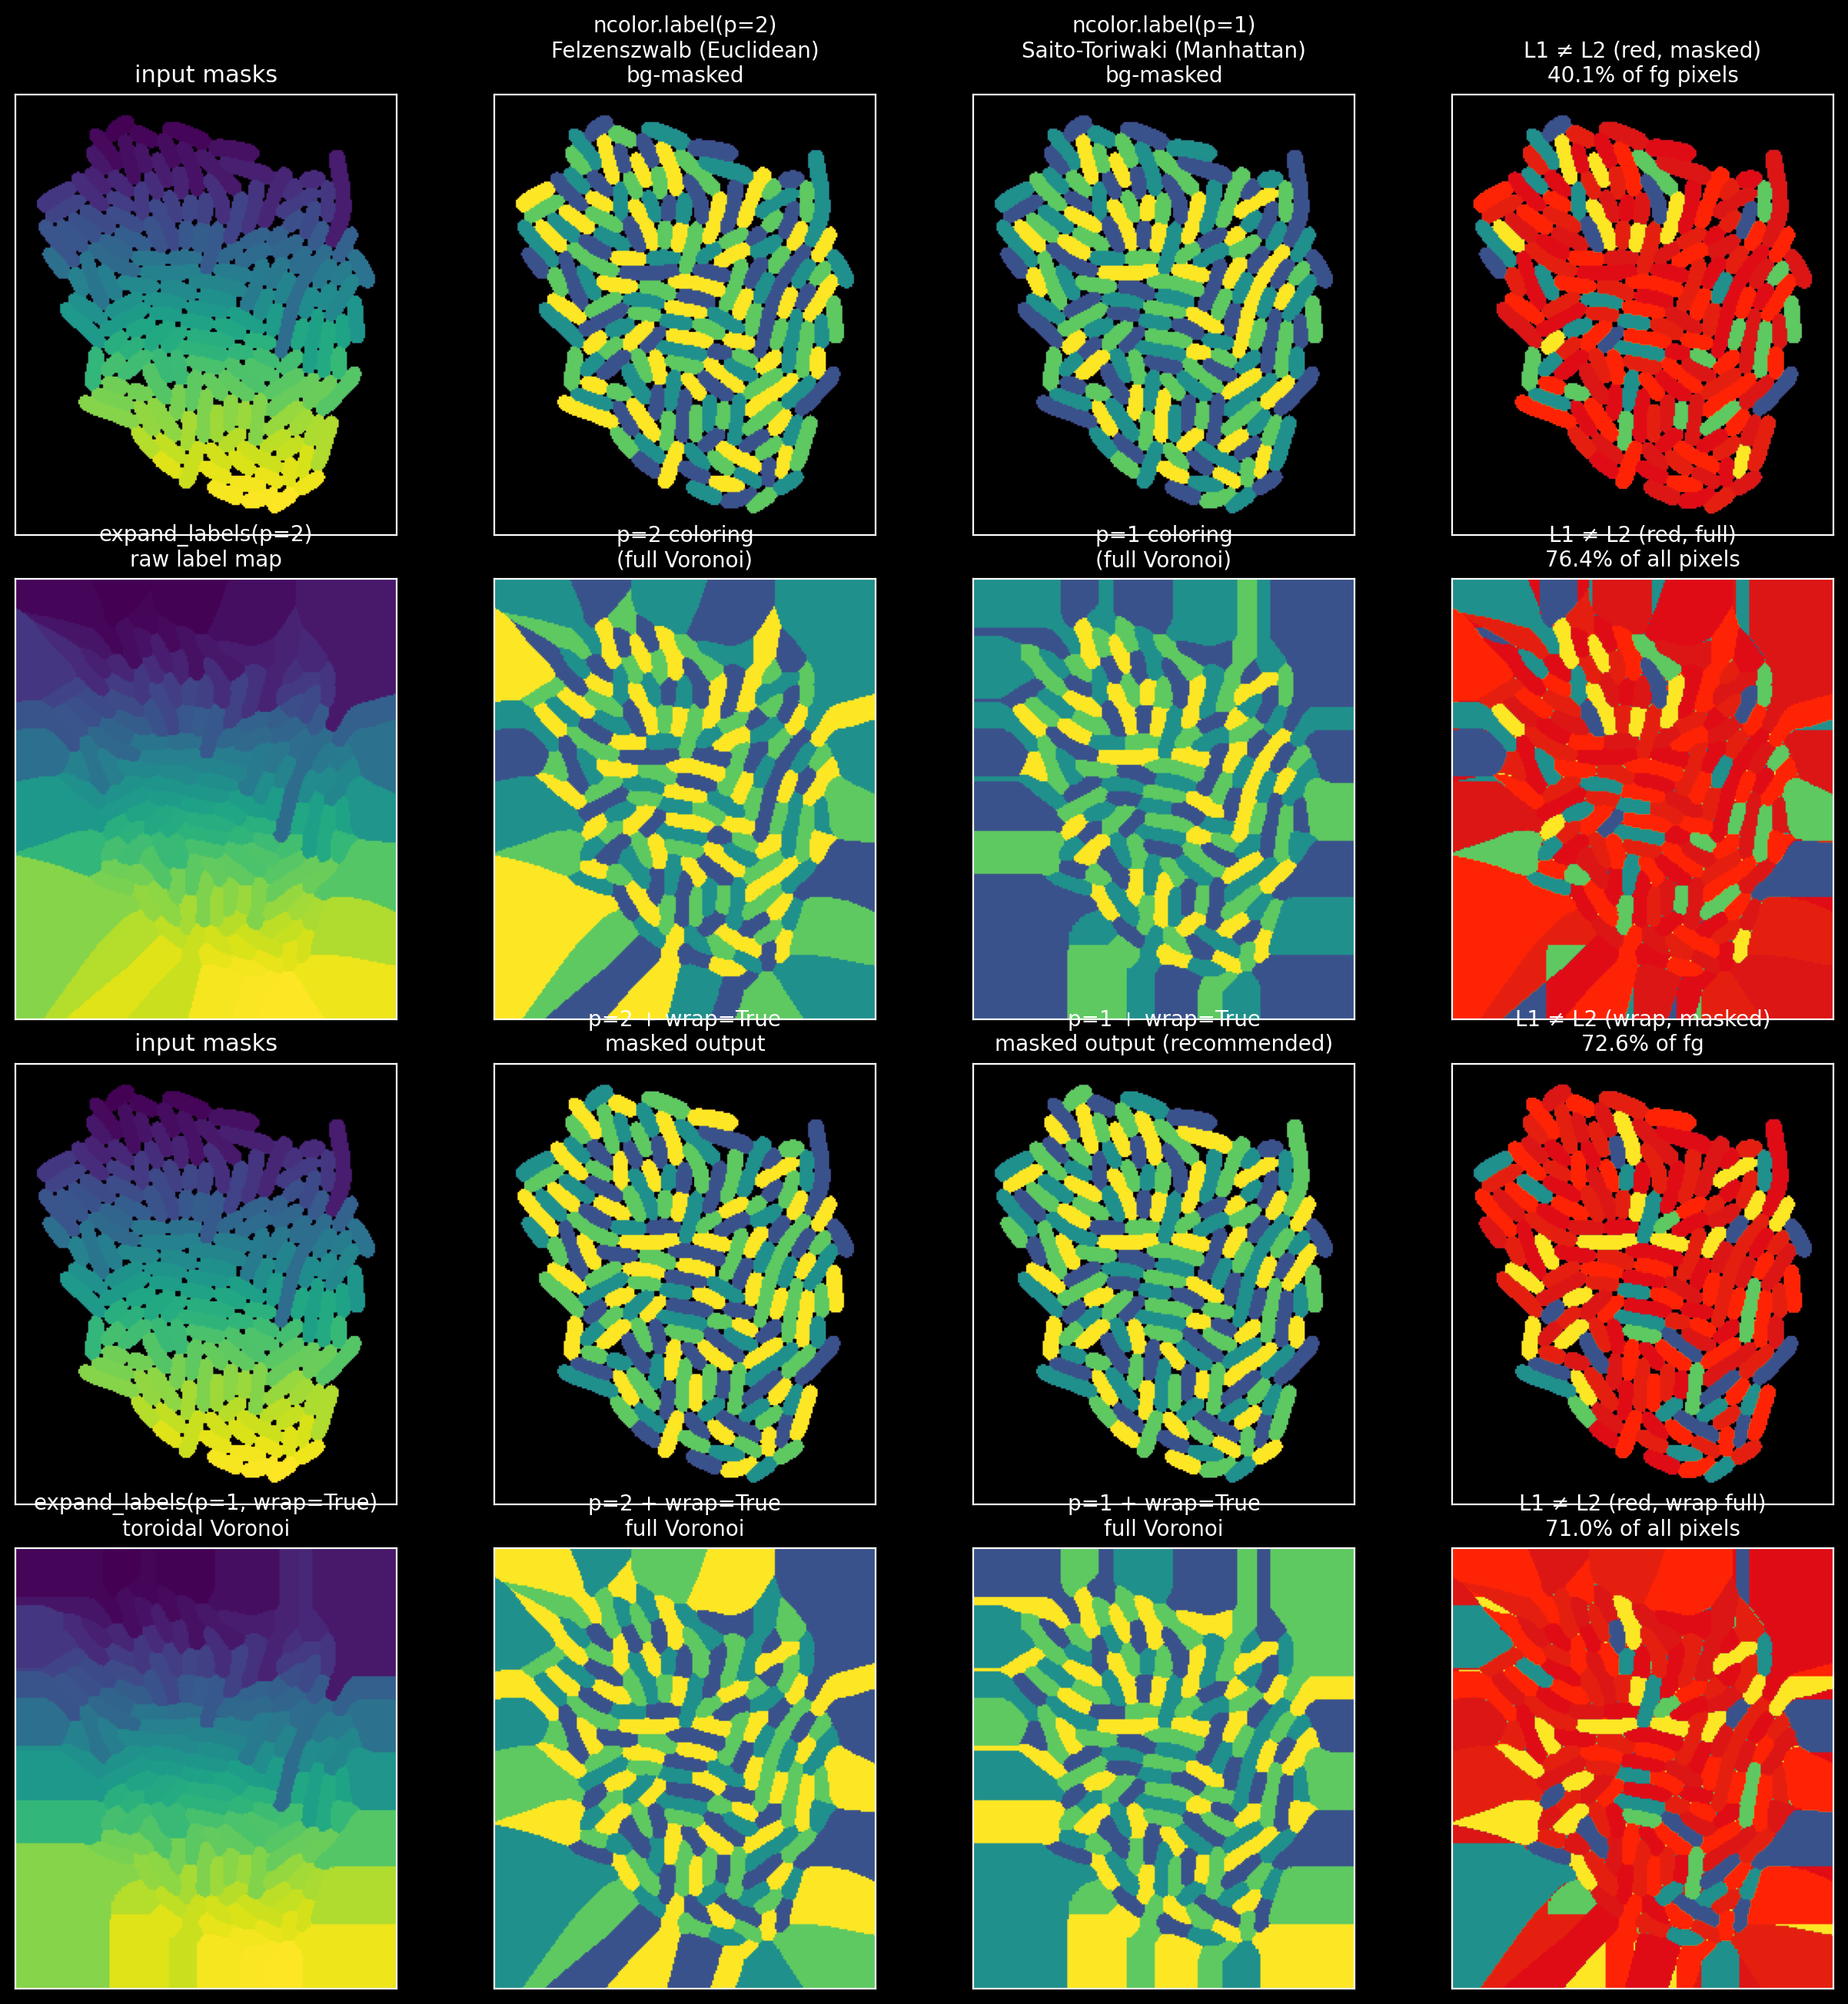
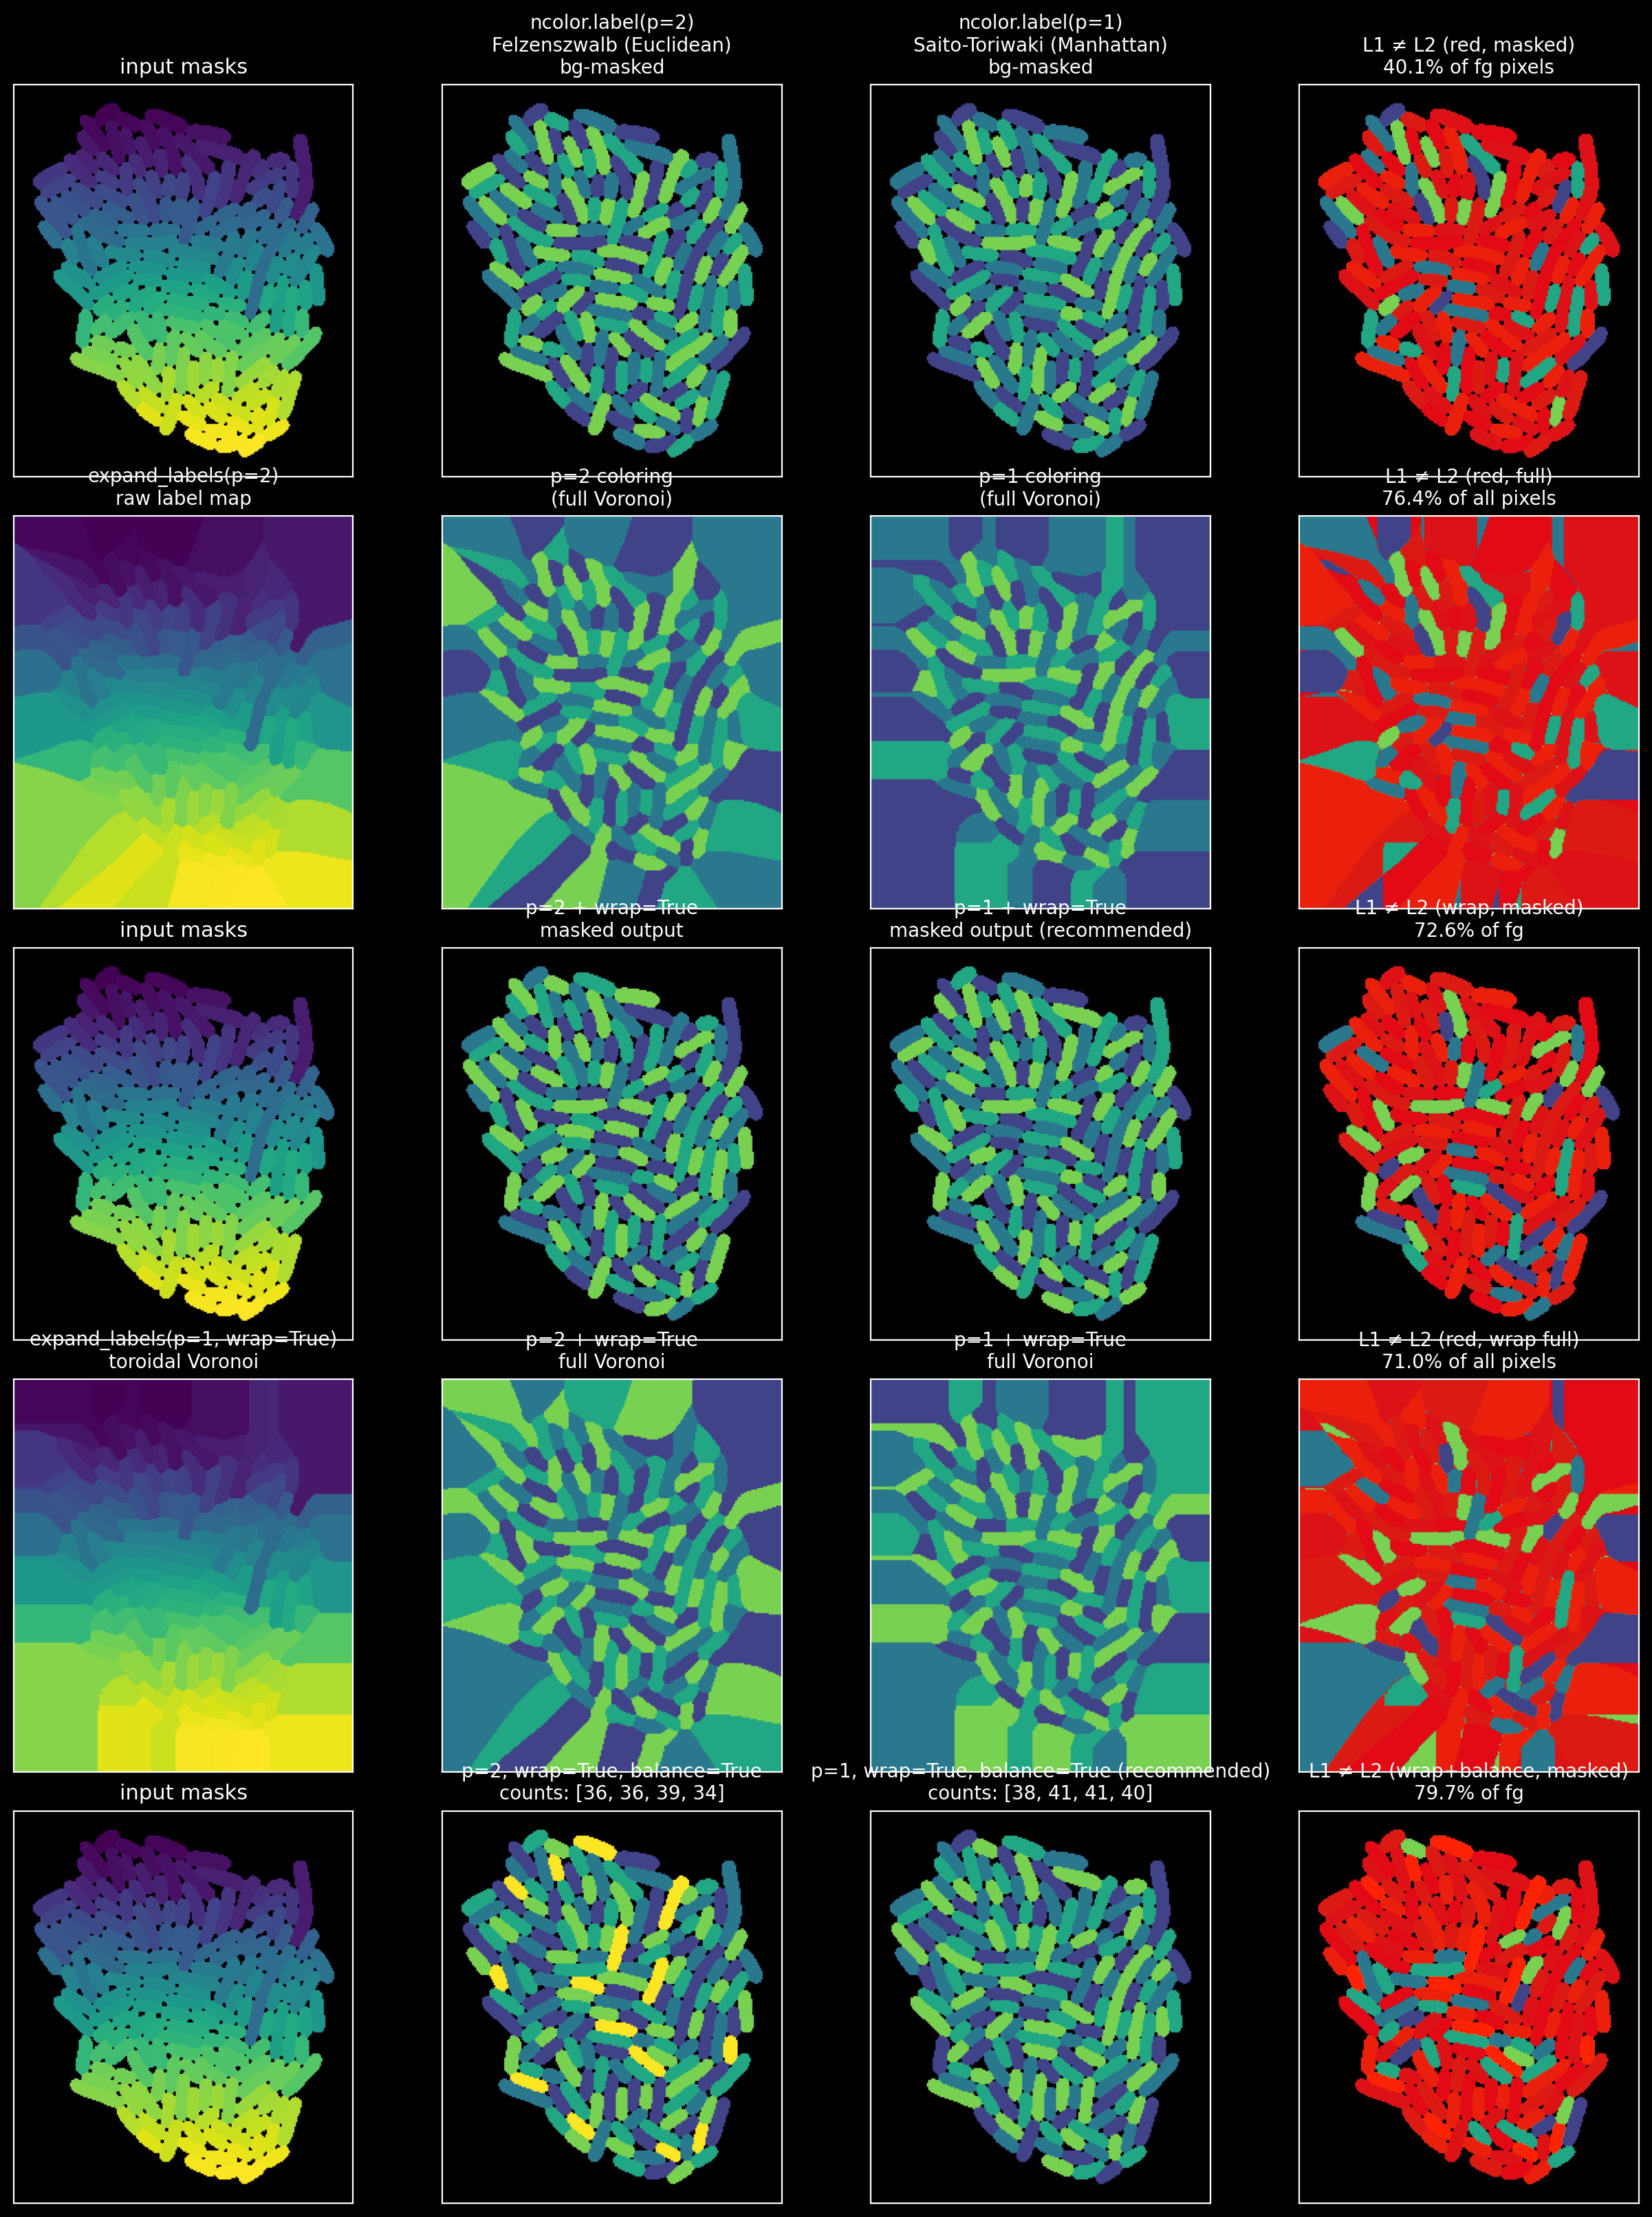
ncolor.label: balance=True (Welsh-Powell visit order) for uniform colour frequency
Adds the Welsh-Powell heuristic as an opt-in. The BFS coloring now
visits cells in DESCENDING DEGREE order rather than label-ID order
when balance=True. High-degree (most-constrained) cells are coloured
first, leaving the BFS more flexibility for low-degree cells later
and spreading colour usage more evenly across the graph.

Implementation:
  - cpp/color.hpp: color_graph_csr_legacy gains a `welsh_powell` flag.
    When true, it bucket-sorts node IDs by degree (O(N + max_degree)
    — typically O(N) since max_degree ≤ ~12 in our planar graphs)
    and seeds the queue in descending-degree order.
  - cpp/binding.cpp: Solver.label gains balance=False param, threaded
    through to both the parallel and serial colour-attempt paths.
  - src/ncolor/color.py: ncolor.label gains balance=False, default off
    for backward compatibility.

Result on the example.png logo (160 cells):
  config                              counts             σ
  p=1, wrap=False, balance=False      [44, 45, 40, 31]   5.52
  p=1, wrap=False, balance=True       [34, 40, 44, 42]   3.74
  p=1, wrap=True,  balance=False      [39, 38, 42, 41]   1.58
  p=1, wrap=True,  balance=True       [38, 41, 41, 40]   1.22  ← BEST
  p=2, wrap=False, balance=False      [37, 41, 42, 40]   1.87
  p=2, wrap=True,  balance=True       [36, 36, 39, 34]   1.79

`p=1, wrap=True, balance=True` is the most uniform configuration of
all eight tested — beats even L2 baseline (σ=1.87 → 1.22).
[…]

diff --git a/examples/l1_vs_l2_comparison.py b/examples/l1_vs_l2_comparison.py
@@ -69,13 +69,14 @@ masks_fmt = ncolor.format_labels(masks.astype(np.int32))
 # adjacencies and the colouring uses 4 colours more uniformly.
 lut_l2 = ncolor.label(masks_fmt, expand=True, p=2, return_lut=True)
 lut_l1 = ncolor.label(masks_fmt, expand=True, p=1, return_lut=True)
-# wrap=True now invokes the proper toroidal expand (Python tile-and-crop +
-# cpp wrap-aware find_pairs), not just toroidal find_pairs.
 lut_l2w = ncolor.label(masks_fmt, expand=True, p=2, wrap=True, return_lut=True)
 lut_l1w = ncolor.label(masks_fmt, expand=True, p=1, wrap=True, return_lut=True)
+# wrap + balance: Welsh-Powell visit order (highest-degree first) on top
+# of toroidal Voronoi. Targets visual uniformity of the 4-colour count.
+lut_l2wb = ncolor.label(masks_fmt, expand=True, p=2, wrap=True, balance=True, return_lut=True)
+lut_l1wb = ncolor.label(masks_fmt, expand=True, p=1, wrap=True, balance=True, return_lut=True)
 exp_l2 = ncolor.expand_labels(masks_fmt, p=2)
 exp_l1 = ncolor.expand_labels(masks_fmt, p=1)
-# Toroidal expansions for the wrap row.
 exp_l2w = ncolor.expand_labels(masks_fmt, p=2, wrap=True)
 exp_l1w = ncolor.expand_labels(masks_fmt, p=1, wrap=True)
 
@@ -98,6 +99,10 @@ ncwrap_l1 = lut_l1w[exp_l1w][y1:y2, x1:x2]
 # bg-masked back to the original cell pattern.
 ncwrap_masked_l2 = (lut_l2w[exp_l2w] * (masks_fmt > 0))[y1:y2, x1:x2]
 ncwrap_masked_l1 = (lut_l1w[exp_l1w] * (masks_fmt > 0))[y1:y2, x1:x2]
+
+# Row 4 (wrap + balance, masked): adding Welsh-Powell visit ordering.
+ncwb_masked_l2 = (lut_l2wb[exp_l2w] * (masks_fmt > 0))[y1:y2, x1:x2]
+ncwb_masked_l1 = (lut_l1wb[exp_l1w] * (masks_fmt > 0))[y1:y2, x1:x2]
 
 # Stats.
 n_pix = m.size
@@ -135,13 +140,15 @@ def colored_panel(arr, mask, *, vmin=None, vmax=None):
     return rgba
 
 
-# Four-row layout (top → bottom):
+# Five-row layout (top → bottom):
 #   row 0 — wrap=False, masked (default ncolor.label output)
 #   row 1 — wrap=False, full Voronoi expansion (same LUT as row 0)
-#   row 2 — wrap=True,  masked (the *actual* user-facing output of
-#                                ncolor.label(..., wrap=True))
+#   row 2 — wrap=True,  masked
 #   row 3 — wrap=True,  full Voronoi expansion (toroidal)
-fig, axes = plt.subplots(4, 4, figsize=(16, 16),
+#   row 4 — wrap=True + balance=True, masked (recommended config —
+#           Welsh-Powell BFS ordering for the most uniform 4-colour
+#           distribution)
+fig, axes = plt.subplots(5, 4, figsize=(16, 20),
                          gridspec_kw={"wspace": 0.02, "hspace": 0.10})
 
 # Color values produced by ncolor.label are in {0, 1, ..., n_colors}.
@@ -150,7 +157,8 @@ fig, axes = plt.subplots(4, 4, figsize=(16, 16),
 n_colors = max(int(nc_l2.max()), int(nc_l1.max()),
                int(ncraw_l2.max()), int(ncraw_l1.max()),
                int(ncwrap_l2.max()), int(ncwrap_l1.max()),
-               int(ncwrap_masked_l2.max()), int(ncwrap_masked_l1.max()))
+               int(ncwrap_masked_l2.max()), int(ncwrap_masked_l1.max()),
+               int(ncwb_masked_l2.max()), int(ncwb_masked_l1.max()))
 COLOR_VMIN, COLOR_VMAX = 0, n_colors
 
 # Row 0 — masked output (only foreground cells visible).
@@ -223,6 +231,26 @@ wrap_diff_rgba[..., 3] = wrap_diff.astype(float)
 axes[3, 3].imshow(colored_panel(ncwrap_l2, full, vmin=COLOR_VMIN, vmax=COLOR_VMAX))
 axes[3, 3].imshow(wrap_diff_rgba, alpha=0.85)
 axes[3, 3].set_title(f"L1 ≠ L2 (red, wrap full)\n{wrap_diff_pct:.1f}% of all pixels",
+                     color="white", fontsize=10)
+
+# Row 4 — wrap + balance (Welsh-Powell), masked output.
+counts_l2wb = [int((lut_l2wb[1:] == c).sum()) for c in range(1, 5)]
+counts_l1wb = [int((lut_l1wb[1:] == c).sum()) for c in range(1, 5)]
+axes[4, 0].imshow(colored_panel(m, m))
+axes[4, 0].set_title("input masks", color="white", fontsize=11)
+axes[4, 1].imshow(colored_panel(ncwb_masked_l2, m, vmin=COLOR_VMIN, vmax=COLOR_VMAX))
+axes[4, 1].set_title(f"p=2, wrap=True, balance=True\ncounts: {counts_l2wb}",
+                     color="white", fontsize=10)
+axes[4, 2].imshow(colored_panel(ncwb_masked_l1, m, vmin=COLOR_VMIN, vmax=COLOR_VMAX))
+axes[4, 2].set_title(f"p=1, wrap=True, balance=True (recommended)\ncounts: {counts_l1wb}",
+                     color="white", fontsize=10)
+wb_diff = (ncwb_masked_l1 != ncwb_masked_l2) & (m > 0)
+wb_diff_rgba = np.zeros((*wb_diff.shape, 4))
+wb_diff_rgba[..., 0] = 1.0
+wb_diff_rgba[..., 3] = wb_diff.astype(float)
+axes[4, 3].imshow(colored_panel(ncwb_masked_l2, m, vmin=COLOR_VMIN, vmax=COLOR_VMAX))
+axes[4, 3].imshow(wb_diff_rgba, alpha=0.85)
+axes[4, 3].set_title(f"L1 ≠ L2 (wrap+balance, masked)\n{wb_diff.sum() / (m > 0).sum() * 100:.1f}% of fg",
                      color="white", fontsize=10)
 
 for ax in axes.ravel():

diff --git a/cpp/color.hpp b/cpp/color.hpp
@@ -53,7 +53,7 @@ inline void build_csr_from_pairs(
 inline bool color_graph_csr_legacy(
         const int32_t* indptr, const int32_t* indices, int32_t N,
         int32_t n_colors, int32_t rand_period, int32_t offset, int64_t max_iter,
-        std::vector<uint8_t>& colors) {
+        std::vector<uint8_t>& colors, bool welsh_powell = false) {
     colors.assign(static_cast<size_t>(N), 0);
     std::vector<int32_t> counter(static_cast<size_t>(N), 0);
 
@@ -63,7 +63,37 @@ inline bool color_graph_csr_legacy(
     std::vector<int32_t> q(static_cast<size_t>(qcap));
     int64_t head = 0;
     int64_t tail = N;
-    for (int32_t i = 0; i < N; ++i) q[i] = i;
+    if (welsh_powell) {
+        // Visit nodes in DESCENDING degree order. High-degree nodes are
+        // most constrained (most neighbours competing for distinct
+        // colours), so colouring them first reduces forced retries and
+        // tends to spread colour usage more evenly across the graph.
+        // Bucket sort: O(N + max_degree). For our planar / near-planar
+        // adjacency graphs, max_degree is small (typically ≤ 12).
+        int32_t max_deg = 0;
+        std::vector<int32_t> deg(static_cast<size_t>(N));
+        for (int32_t i = 0; i < N; ++i) {
+            deg[i] = indptr[i + 1] - indptr[i];
+            if (deg[i] > max_deg) max_deg = deg[i];
+        }
+        std::vector<int32_t> bucket_head(static_cast<size_t>(max_deg) + 2, 0);
+        for (int32_t i = 0; i < N; ++i) bucket_head[deg[i] + 1]++;
+        // Convert to write-index per bucket, ordered high → low.
+        std::vector<int32_t> wpos(static_cast<size_t>(max_deg) + 1, 0);
+        // Compute starting position of each bucket (degree d) in the
+        // descending-by-degree output. Bucket for degree max_deg starts
+        // at 0; bucket for degree max_deg-1 starts after that; ...
+        int32_t cum = 0;
+        for (int32_t d = max_deg; d >= 0; --d) {
+            wpos[d] = cum;
+            cum += bucket_head[d + 1];
+        }
+        for (int32_t i = 0; i < N; ++i) {
+            q[wpos[deg[i]]++] = i;
+        }
+    } else {
+        for (int32_t i = 0; i < N; ++i) q[i] = i;
+    }
 
     const uint32_t fullmask = (1u << (n_colors + 1)) - 2;
     int64_t count = 0;

diff --git a/src/ncolor/color.py b/src/ncolor/color.py
@@ -50,7 +50,7 @@ def _get_solver():
 def label(lab, n=4, conn=2, max_depth=30, offset=0, expand=True,
           return_n=False, return_lut=False, verbose=False,
           check_conflicts=False, return_conflicts=False, format_input=True,
-          out=None, p=2, wrap=False):
+          out=None, p=2, wrap=False, balance=False):
     """4-color graph coloring of a label image.
 
     Default path uses the C++ Solver. ``verbose`` still falls back to the
@@ -70,8 +70,15 @@ def label(lab, n=4, conn=2, max_depth=30, offset=0, expand=True,
     edges are neighbours, so cells on opposite image edges become
     adjacent in the colouring graph. Increases constraint pressure on
     perimeter cells and produces a more uniform colour distribution on
-    tightly-cropped images. Negligible runtime cost (only the boundary
-    pixels — <1% of the image — pay the wrap-aware lookup).
+    tightly-cropped images. Negligible runtime cost.
+
+    ``balance=True`` uses the Welsh-Powell heuristic in the BFS
+    coloring: cells are visited in descending-degree order so the
+    most-constrained cells get coloured first. Spreads colour usage
+    more evenly than the default label-ID order at ~zero runtime cost
+    (one O(N) bucket sort). Recommended for visual uniformity,
+    especially with p=1 where the BFS would otherwise concentrate
+    color 4 unevenly.
     """
     if verbose:
         return _legacy_label(lab, n=n, conn=conn, max_depth=max_depth,
@@ -96,7 +103,8 @@ def label(lab, n=4, conn=2, max_depth=30, offset=0, expand=True,
         lab_arr,
         n_colors=int(n), max_depth=int(max_depth),
         conn=int(conn), p=int(p), format_input=bool(format_input),
-        expand=bool(expand), out=out, wrap=bool(wrap))
+        expand=bool(expand), out=out, wrap=bool(wrap),
+        balance=bool(balance))
     out = out_array
 
     # return_lut / check_conflicts / return_conflicts: read accessors from

diff --git a/cpp/binding.cpp b/cpp/binding.cpp
@@ -580,7 +580,7 @@ public:
             int conn = 2, int p = 2, bool capture_stages = false,
             bool format_input = true, bool expand = true,
             py::object out_arg = py::none(),
-            int color_mode = -1, bool wrap = false) {
+            int color_mode = -1, bool wrap = false, bool balance = false) {
         // color_mode: -1 = auto (default; threshold-based), 0 = force serial,
         // 1 = force parallel. Used by benchmarks to A/B test the parallel
         // coloring path without rebuilding the extension.
@@ -921,7 +921,7 @@ public:
                             const int attempt_offset = local_depth + idx;
                             const bool finished = ncolor_cpp::color_graph_csr_legacy(
                                 ip, ix, N,
-                                local_cur_n, rand_period, attempt_offset, max_iter, cv);
+                                local_cur_n, rand_period, attempt_offset, max_iter, cv, balance);
                             const bool conflict = !finished ||
                                 ncolor_cpp::has_conflict_csr(ip, ix, N, cv.data());
                             bool a_ok;
@@ -949,7 +949,7 @@ public:
                     for (int attempt = 0; attempt < attempts_per_n && !ok; ++attempt) {
                         const bool finished = ncolor_cpp::color_graph_csr_legacy(
                             indptr_.data(), indices_.data(), N,
-                            cur_n, rand_period, depth + attempt, max_iter, colors_);
+                            cur_n, rand_period, depth + attempt, max_iter, colors_, balance);
                         bool conflict = !finished || ncolor_cpp::has_conflict_csr(
                             indptr_.data(), indices_.data(), N, colors_.data());
                         if (conflict) {
@@ -1116,7 +1116,7 @@ PYBIND11_MODULE(_impl, m) {
              py::arg("p") = 2, py::arg("capture_stages") = false,
              py::arg("format_input") = true, py::arg("expand") = true,
              py::arg("out") = py::none(), py::arg("color_mode") = -1,
-             py::arg("wrap") = false,
+             py::arg("wrap") = false, py::arg("balance") = false,
              "Run [format_labels →] [expand →] connect → CSR → color → apply_lut.\n"
              "Supports 2D and 3D inputs (any ndim ≥ 2 actually).\n"
              "conn: 2D ∈ {1, 2}, 3D ∈ {1, 2, 3}. Matches\n"
@@ -1140,7 +1140,12 @@ PYBIND11_MODULE(_impl, m) {
              "around adjacencies between cells whose Voronoi territories\n"
              "land on opposite image edges. Useful for tile-equivalent or\n"
              "periodic-imaging assumptions; balances colour frequencies on\n"
-             "tightly-cropped microcolony images at ~zero runtime cost.")
+             "tightly-cropped microcolony images at ~zero runtime cost.\n"
+             "balance=True visits cells in descending-degree order during\n"
+             "the BFS coloring (Welsh-Powell heuristic). High-degree (most\n"
+             "constrained) cells are coloured first, which spreads colour\n"
+             "usage more evenly across the graph. ~zero runtime cost\n"
+             "(O(N) bucket sort). Recommended for visual uniformity.")
         .def("connect", &Solver::connect,
              py::arg("mask"), py::arg("conn") = 1, py::arg("wrap") = false,
              "Adjacency pairs for a label image. Returns an (M, 2) int32\n"